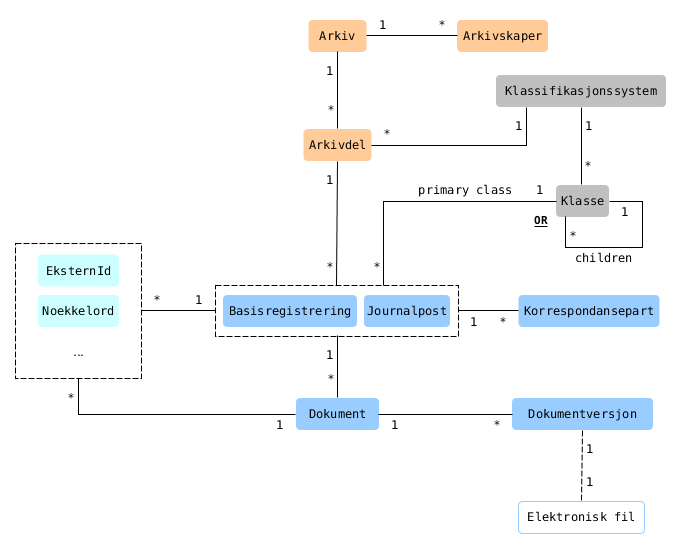
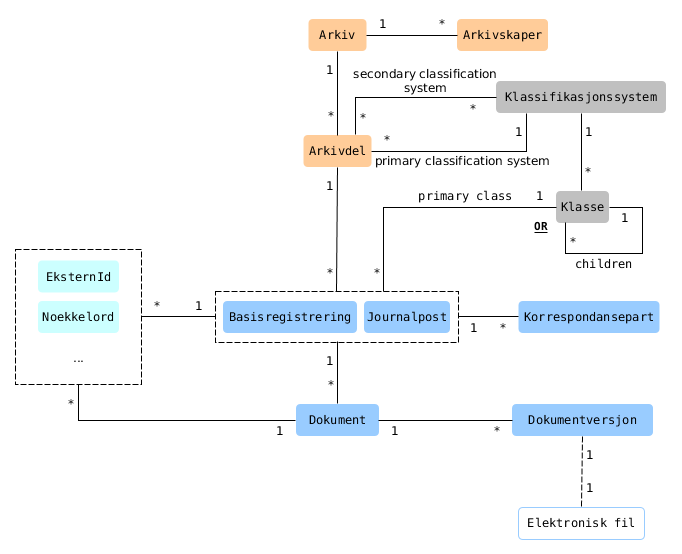
Add support for secondary classification systems
Rename existing reference from Arkivdel to Klassifikasjonssystem
so that it denotes the link to the primary classification system.
Add reference from Arkivdel to Klassifikasjonssystem to be used
for secondary classification systems. Update archive model diagrams.

diff --git a/src/02 - Object types.md b/src/02 - Object types.md
@@ -76,50 +76,52 @@ The following notation is used in the tables below:
 
 ### Arkivdel
 
-| ID   | Type   | Field                           | Not null | Has default | Code list |  | Save | View | Query | Sort | Link / Unlink | Comment 1                                                                                                                                  | Comment 2                                                                                                   |
-|:-----|:-------|:--------------------------------|:--------:|:-----------:|:---------:|:-|:----:|:----:|:-----:|:----:|:-------------:|:-------------------------------------------------------------------------------------------------------------------------------------------|:------------------------------------------------------------------------------------------------------------|
-|      | string | id                              |    x     |      x      |           |  |  sm  |  x   |   x   |  x   |               |                                                                                                                                            |                                                                                                             |
-|      | string | version                         |    x     |      x      |           |  |  sm  |  x   |   x   |      |               |                                                                                                                                            |                                                                                                             |
-|      |        |                                 |          |             |           |  |      |      |       |      |               |                                                                                                                                            |                                                                                                             |
-| M001 | string | uuid                            |    x     |      x      |           |  |  cw  |  x   |   x   |      |               |                                                                                                                                            |                                                                                                             |
-| M600 | date   | opprettetDato                   |    x     |      x      |           |  |  cw  |  x   |   x   |  x   |               |                                                                                                                                            |                                                                                                             |
-| M601 | string | opprettetAv                     |    x     |      x      |           |  |  cw  |  x   |   x   |  x   |               |                                                                                                                                            |                                                                                                             |
-| M601 | string | opprettetAvBrukerIdent          |    x     |      x      |           |  |  cw  |  x   |   x   |  x   |               |                                                                                                                                            |                                                                                                             |
-| M020 | string | tittel                          |    x     |             |           |  |  x   |  x   |   x   |  x   |               |                                                                                                                                            |                                                                                                             |
-| M021 | string | beskrivelse                     |          |             |           |  |  x   |  x   |   x   |  x   |               |                                                                                                                                            |                                                                                                             |
-| M051 | string | arkivdelstatus                  |    x     |      x      |     x     |  |  x   |  x   |   x   |  x   |               |                                                                                                                                            |                                                                                                             |
-| M300 | string | dokumentmedium                  |    x     |      x      |     x     |  |  x   |  x   |   x   |  x   |               |                                                                                                                                            |                                                                                                             |
-| M107 | date   | arkivperiodeStartDato           |          |             |           |  |  x   |  x   |   x   |  x   |               |                                                                                                                                            |                                                                                                             |
-| M108 | date   | arkivperiodeSluttDato           |          |             |           |  |  x   |  x   |   x   |  x   |               |                                                                                                                                            |                                                                                                             |
-| M500 | string | skjerming                       |          |             |     x     |  |  x   |  x   |   x   |  x   |               | <p> &bull; code list in Documaster </p>                                                                                                    |                                                                                                             |
-|      |        |                                 |          |             |           |  |      |      |       |      |               |                                                                                                                                            |                                                                                                             |
-|      | ref    | refArkiv                        |    x     |             |           |  |      |  x   |   x   |      |       x       |                                                                                                                                            |                                                                                                             |
-|      | ref    | refPrimaerKlassifikasjonssystem |          |             |           |  |      |  x   |   x   |      |       x       |                                                                                                                                            |                                                                                                             |
-|      | ref    | refMappe                        |          |             |           |  |      |      |   x   |      |       x       | <p>&bull; references **Mappe** or **Saksmappe**</p> <p>&bull; may not be supported by all systems or partially supported</p>               |                                                                                                             |
-|      | ref    | refRegistrering                 |          |             |           |  |      |      |   x   |      |       x       | <p>&bull; references **Basisregistrering** or **Journalpost** </p><p>&bull; may not be supported by all systems or partially supported</p> | <p>&bull; references to **Basisregistrering** and **Journalpost** not currently supported in Documaster</p> |
+| ID   | Type   | Field                             | Not null | Has default | Code list |  | Save | View | Query | Sort | Link / Unlink | Comment 1                                                                                                                                  | Comment 2                                                                                                   |
+|:-----|:-------|:----------------------------------|:--------:|:-----------:|:---------:|:-|:----:|:----:|:-----:|:----:|:-------------:|:-------------------------------------------------------------------------------------------------------------------------------------------|:------------------------------------------------------------------------------------------------------------|
+|      | string | id                                |    x     |      x      |           |  |  sm  |  x   |   x   |  x   |               |                                                                                                                                            |                                                                                                             |
+|      | string | version                           |    x     |      x      |           |  |  sm  |  x   |   x   |      |               |                                                                                                                                            |                                                                                                             |
+|      |        |                                   |          |             |           |  |      |      |       |      |               |                                                                                                                                            |                                                                                                             |
+| M001 | string | uuid                              |    x     |      x      |           |  |  cw  |  x   |   x   |      |               |                                                                                                                                            |                                                                                                             |
+| M600 | date   | opprettetDato                     |    x     |      x      |           |  |  cw  |  x   |   x   |  x   |               |                                                                                                                                            |                                                                                                             |
+| M601 | string | opprettetAv                       |    x     |      x      |           |  |  cw  |  x   |   x   |  x   |               |                                                                                                                                            |                                                                                                             |
+| M601 | string | opprettetAvBrukerIdent            |    x     |      x      |           |  |  cw  |  x   |   x   |  x   |               |                                                                                                                                            |                                                                                                             |
+| M020 | string | tittel                            |    x     |             |           |  |  x   |  x   |   x   |  x   |               |                                                                                                                                            |                                                                                                             |
+| M021 | string | beskrivelse                       |          |             |           |  |  x   |  x   |   x   |  x   |               |                                                                                                                                            |                                                                                                             |
+| M051 | string | arkivdelstatus                    |    x     |      x      |     x     |  |  x   |  x   |   x   |  x   |               |                                                                                                                                            |                                                                                                             |
+| M300 | string | dokumentmedium                    |    x     |      x      |     x     |  |  x   |  x   |   x   |  x   |               |                                                                                                                                            |                                                                                                             |
+| M107 | date   | arkivperiodeStartDato             |          |             |           |  |  x   |  x   |   x   |  x   |               |                                                                                                                                            |                                                                                                             |
+| M108 | date   | arkivperiodeSluttDato             |          |             |           |  |  x   |  x   |   x   |  x   |               |                                                                                                                                            |                                                                                                             |
+| M500 | string | skjerming                         |          |             |     x     |  |  x   |  x   |   x   |  x   |               | <p> &bull; code list in Documaster </p>                                                                                                    |                                                                                                             |
+|      |        |                                   |          |             |           |  |      |      |       |      |               |                                                                                                                                            |                                                                                                             |
+|      | ref    | refArkiv                          |    x     |             |           |  |      |  x   |   x   |      |       x       |                                                                                                                                            |                                                                                                             |
+|      | ref    | refPrimaerKlassifikasjonssystem   |          |             |           |  |      |  x   |   x   |      |       x       |                                                                                                                                            |                                                                                                             |
+|      | ref    | refSekundaerKlassifikasjonssystem |          |             |           |  |      |      |   x   |      |       x       |                                                                                                                                            |                                                                                                             |
+|      | ref    | refMappe                          |          |             |           |  |      |      |   x   |      |       x       | <p>&bull; references **Mappe** or **Saksmappe**</p> <p>&bull; may not be supported by all systems or partially supported</p>               |                                                                                                             |
+|      | ref    | refRegistrering                   |          |             |           |  |      |      |   x   |      |       x       | <p>&bull; references **Basisregistrering** or **Journalpost** </p><p>&bull; may not be supported by all systems or partially supported</p> | <p>&bull; references to **Basisregistrering** and **Journalpost** not currently supported in Documaster</p> |
 
 ## Classification
 
 ### Klassifikasjonssystem
 
-| ID   | Type   | Field                  | Not null | Has default | Code list |  | Save | View | Query | Sort | Link / Unlink | Comment 1 | Comment 2 |
-|:-----|:-------|:-----------------------|:--------:|:-----------:|:---------:|:-|:----:|:----:|:-----:|:----:|:-------------:|:----------|:----------|
-|      | string | id                     |    x     |      x      |           |  |  sm  |  x   |   x   |  x   |               |           |           |
-|      | string | version                |    x     |      x      |           |  |  sm  |  x   |   x   |      |               |           |           |
-|      |        |                        |          |             |           |  |      |      |       |      |               |           |           |
-| M001 | string | uuid                   |    x     |      x      |           |  |  cw  |  x   |   x   |      |               |           |           |
-| M600 | date   | opprettetDato          |    x     |      x      |           |  |  cw  |  x   |   x   |  x   |               |           |           |
-| M601 | string | opprettetAv            |    x     |      x      |           |  |  cw  |  x   |   x   |  x   |               |           |           |
-| M601 | string | opprettetAvBrukerIdent |    x     |      x      |           |  |  cw  |  x   |   x   |  x   |               |           |           |
-| M602 | date   | avsluttetDato          |          |             |           |  |  cw  |  x   |   x   |  x   |               |           |           |
-| M603 | string | avsluttetAv            |          |             |           |  |  cw  |  x   |   x   |  x   |               |           |           |
-| M603 | string | avsluttetAvBrukerIdent |          |             |           |  |  cw  |  x   |   x   |  x   |               |           |           |
-| M086 | string | klassifikasjonstype    |          |             |           |  |  x   |  x   |   x   |  x   |               |           |           |
-| M020 | string | tittel                 |    x     |             |           |  |  x   |  x   |   x   |  x   |               |           |           |
-| M021 | string | beskrivelse            |          |             |           |  |  x   |  x   |   x   |  x   |               |           |           |
-|      |        |                        |          |             |           |  |      |      |       |      |               |           |           |
-|      | ref    | refKlasse              |          |             |           |  |      |      |   x   |      |       x       |           |           |
-|      | ref    | refArkivdel            |          |             |           |  |      |      |   x   |      |       x       |           | &nbsp;    |
+| ID   | Type   | Field                   | Not null | Has default | Code list |  | Save | View | Query | Sort | Link / Unlink | Comment 1 | Comment 2 |
+|:-----|:-------|:------------------------|:--------:|:-----------:|:---------:|:-|:----:|:----:|:-----:|:----:|:-------------:|:----------|:----------|
+|      | string | id                      |    x     |      x      |           |  |  sm  |  x   |   x   |  x   |               |           |           |
+|      | string | version                 |    x     |      x      |           |  |  sm  |  x   |   x   |      |               |           |           |
+|      |        |                         |          |             |           |  |      |      |       |      |               |           |           |
+| M001 | string | uuid                    |    x     |      x      |           |  |  cw  |  x   |   x   |      |               |           |           |
+| M600 | date   | opprettetDato           |    x     |      x      |           |  |  cw  |  x   |   x   |  x   |               |           |           |
+| M601 | string | opprettetAv             |    x     |      x      |           |  |  cw  |  x   |   x   |  x   |               |           |           |
+| M601 | string | opprettetAvBrukerIdent  |    x     |      x      |           |  |  cw  |  x   |   x   |  x   |               |           |           |
+| M602 | date   | avsluttetDato           |          |             |           |  |  cw  |  x   |   x   |  x   |               |           |           |
+| M603 | string | avsluttetAv             |          |             |           |  |  cw  |  x   |   x   |  x   |               |           |           |
+| M603 | string | avsluttetAvBrukerIdent  |          |             |           |  |  cw  |  x   |   x   |  x   |               |           |           |
+| M086 | string | klassifikasjonstype     |          |             |           |  |  x   |  x   |   x   |  x   |               |           |           |
+| M020 | string | tittel                  |    x     |             |           |  |  x   |  x   |   x   |  x   |               |           |           |
+| M021 | string | beskrivelse             |          |             |           |  |  x   |  x   |   x   |  x   |               |           |           |
+|      |        |                         |          |             |           |  |      |      |       |      |               |           |           |
+|      | ref    | refKlasse               |          |             |           |  |      |      |   x   |      |       x       |           |           |
+|      | ref    | refArkivdelSomPrimaer   |          |             |           |  |      |      |   x   |      |       x       |           |           |
+|      | ref    | refArkivdelSomSekundaer |          |             |           |  |      |      |   x   |      |       x       |           | &nbsp;    |
 
 ### Klasse
 
